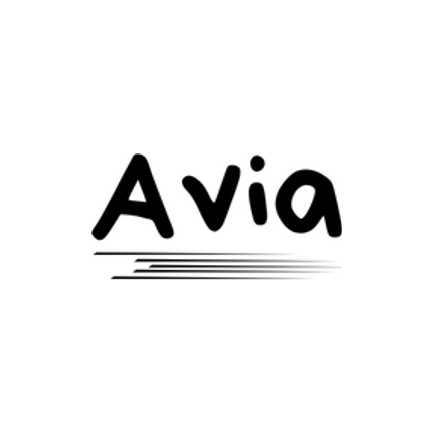
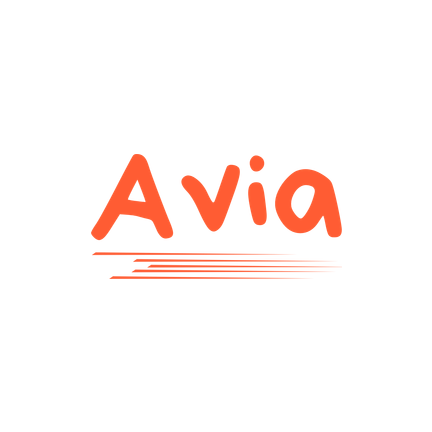
Identidade visual em laranja: título "Avia" e ícone do app
- Nova cor da marca no tema (COR_MARCA #FF5C33; #FF6A42 no modo escuro),
  usada na saudação "Avia, Nome!" e na frase do splash.
- Ícones (opção B: fundo branco, símbolo laranja) regenerados em todos os
  tamanhos: ícone 1024 sem transparência, foreground do ícone adaptativo do
  Android (com margem de segurança), splash, favicon e ícones do PWA.
- Identificadores do app (package, bundleIdentifier, slug, nome) inalterados.

Changed region(s): [[0.2106, 0.331, 0.7824, 0.662], [0.4213, 0.3611, 0.8125, 0.5718]]

diff --git a/src/theme/paletas.ts b/src/theme/paletas.ts
@@ -3,7 +3,16 @@
 // Duas paletas (clara/escura) com as MESMAS chaves — ver ThemeContext.tsx,
 // que escolhe qual delas expor via useTheme() conforme a preferência do
 // usuário (ou o tema do sistema).
+
+// Laranja da identidade visual do Avia (título "Avia", frase do splash,
+// ícone do app) — fonte única pra essa cor; as paletas abaixo derivam dela.
+export const COR_MARCA = '#FF5C33';
+
 export interface Paleta {
+  // Cor da marca nesse esquema (clara usa COR_MARCA; escura, um tom um pouco
+  // mais claro pra manter o contraste sobre fundo escuro).
+  marca: string;
+
   background: string;
   surface: string;
   border: string;
@@ -28,6 +37,8 @@ export interface Paleta {
 }
 
 export const paletaClara: Paleta = {
+  marca: COR_MARCA,
+
   background: '#FAFAFA',
   surface: '#FFFFFF',
   border: '#ECECEC',
@@ -57,6 +68,8 @@ export const paletaClara: Paleta = {
 // priority) ficam praticamente as mesmas — já são saturadas o bastante pra
 // continuar legíveis sobre fundo escuro.
 export const paletaEscura: Paleta = {
+  marca: '#FF6A42',
+
   background: '#121212',
   surface: '#1E1E1E',
   border: '#2C2C2C',

diff --git a/src/components/SplashAnimado.tsx b/src/components/SplashAnimado.tsx
@@ -1,5 +1,6 @@
 import React, { useEffect, useRef } from 'react';
 import { Animated, Image, StyleSheet, View } from 'react-native';
+import { COR_MARCA } from '../theme/paletas';
 import { fonts } from '../theme/typography';
 
 // Splash "de verdade" mostrado em JS, por cima do resto do app — o splash
@@ -110,7 +111,7 @@ const styles = StyleSheet.create({
     marginTop: 4,
     fontFamily: fonts.extraBold,
     fontSize: 16,
-    color: '#FF5C33',
+    color: COR_MARCA,
     letterSpacing: 0.2,
   },
 });

diff --git a/src/components/TopBar.tsx b/src/components/TopBar.tsx
@@ -227,7 +227,7 @@ function criarEstilos(colors: Paleta) {
   },
   saudacaoTexto: {
     fontFamily: fonts.extraBold,
-    color: colors.textPrimary,
+    color: colors.marca,
   },
   medidorInvisivel: {
     position: 'absolute',
